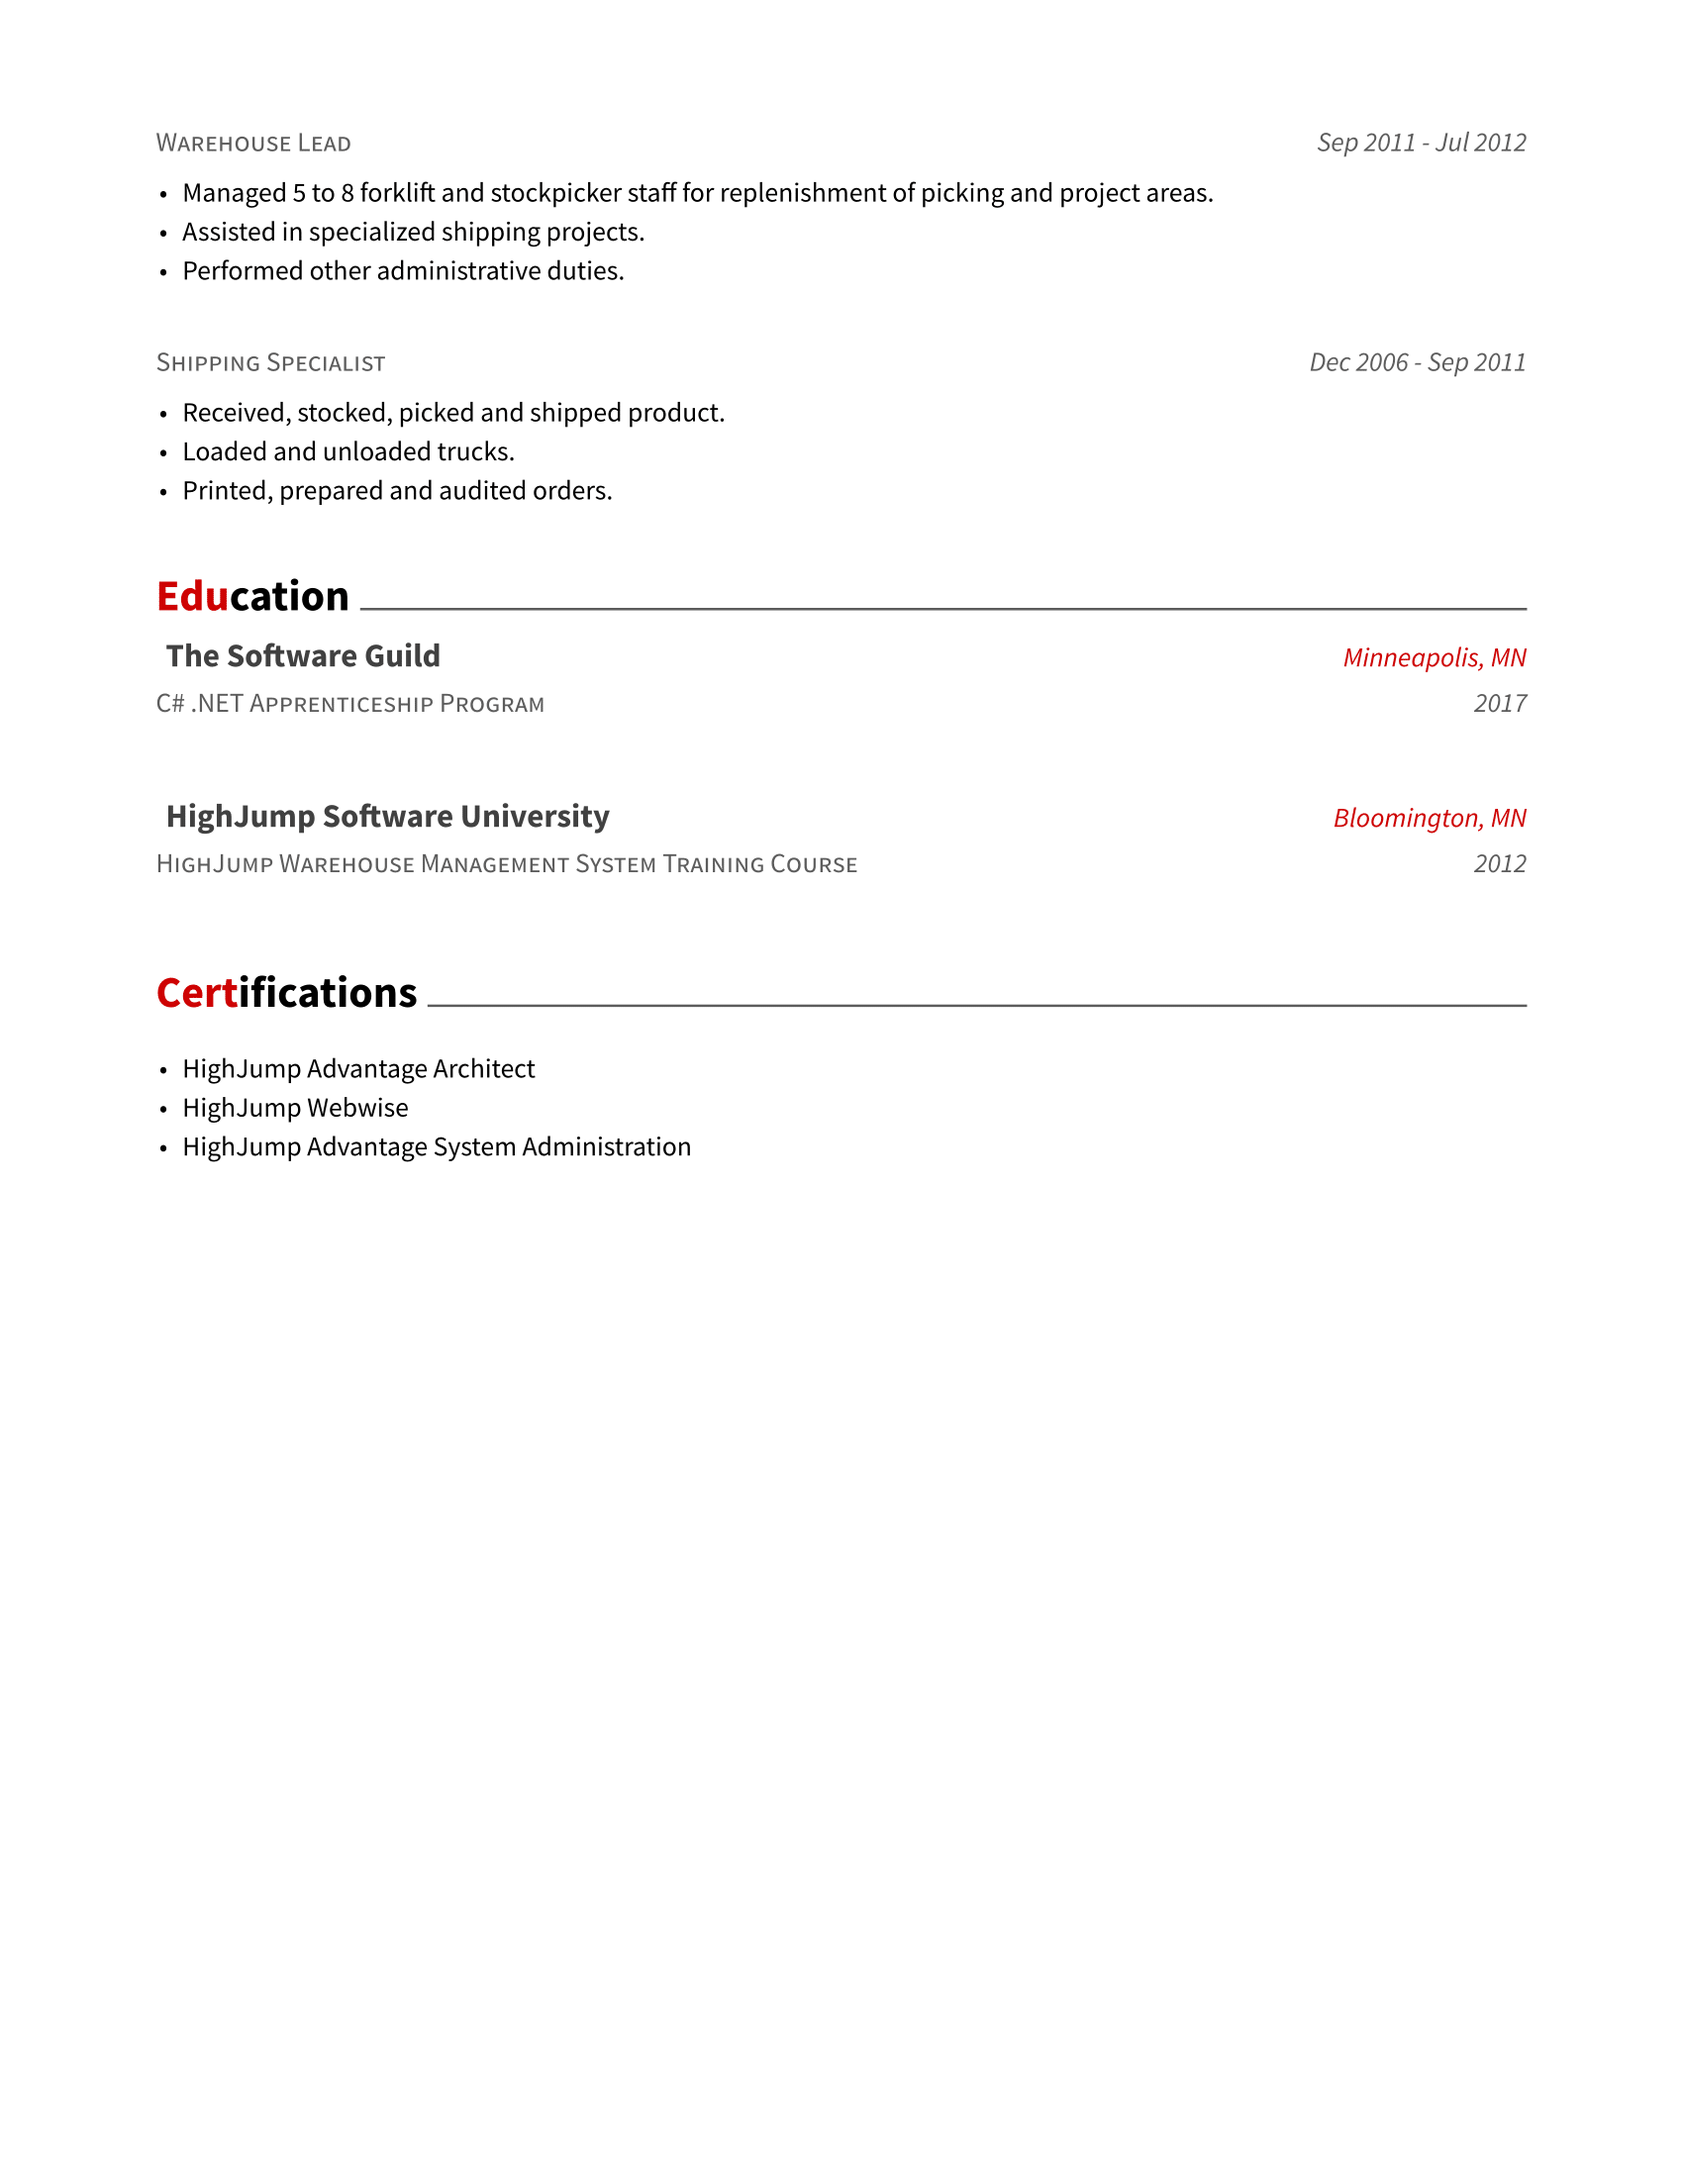
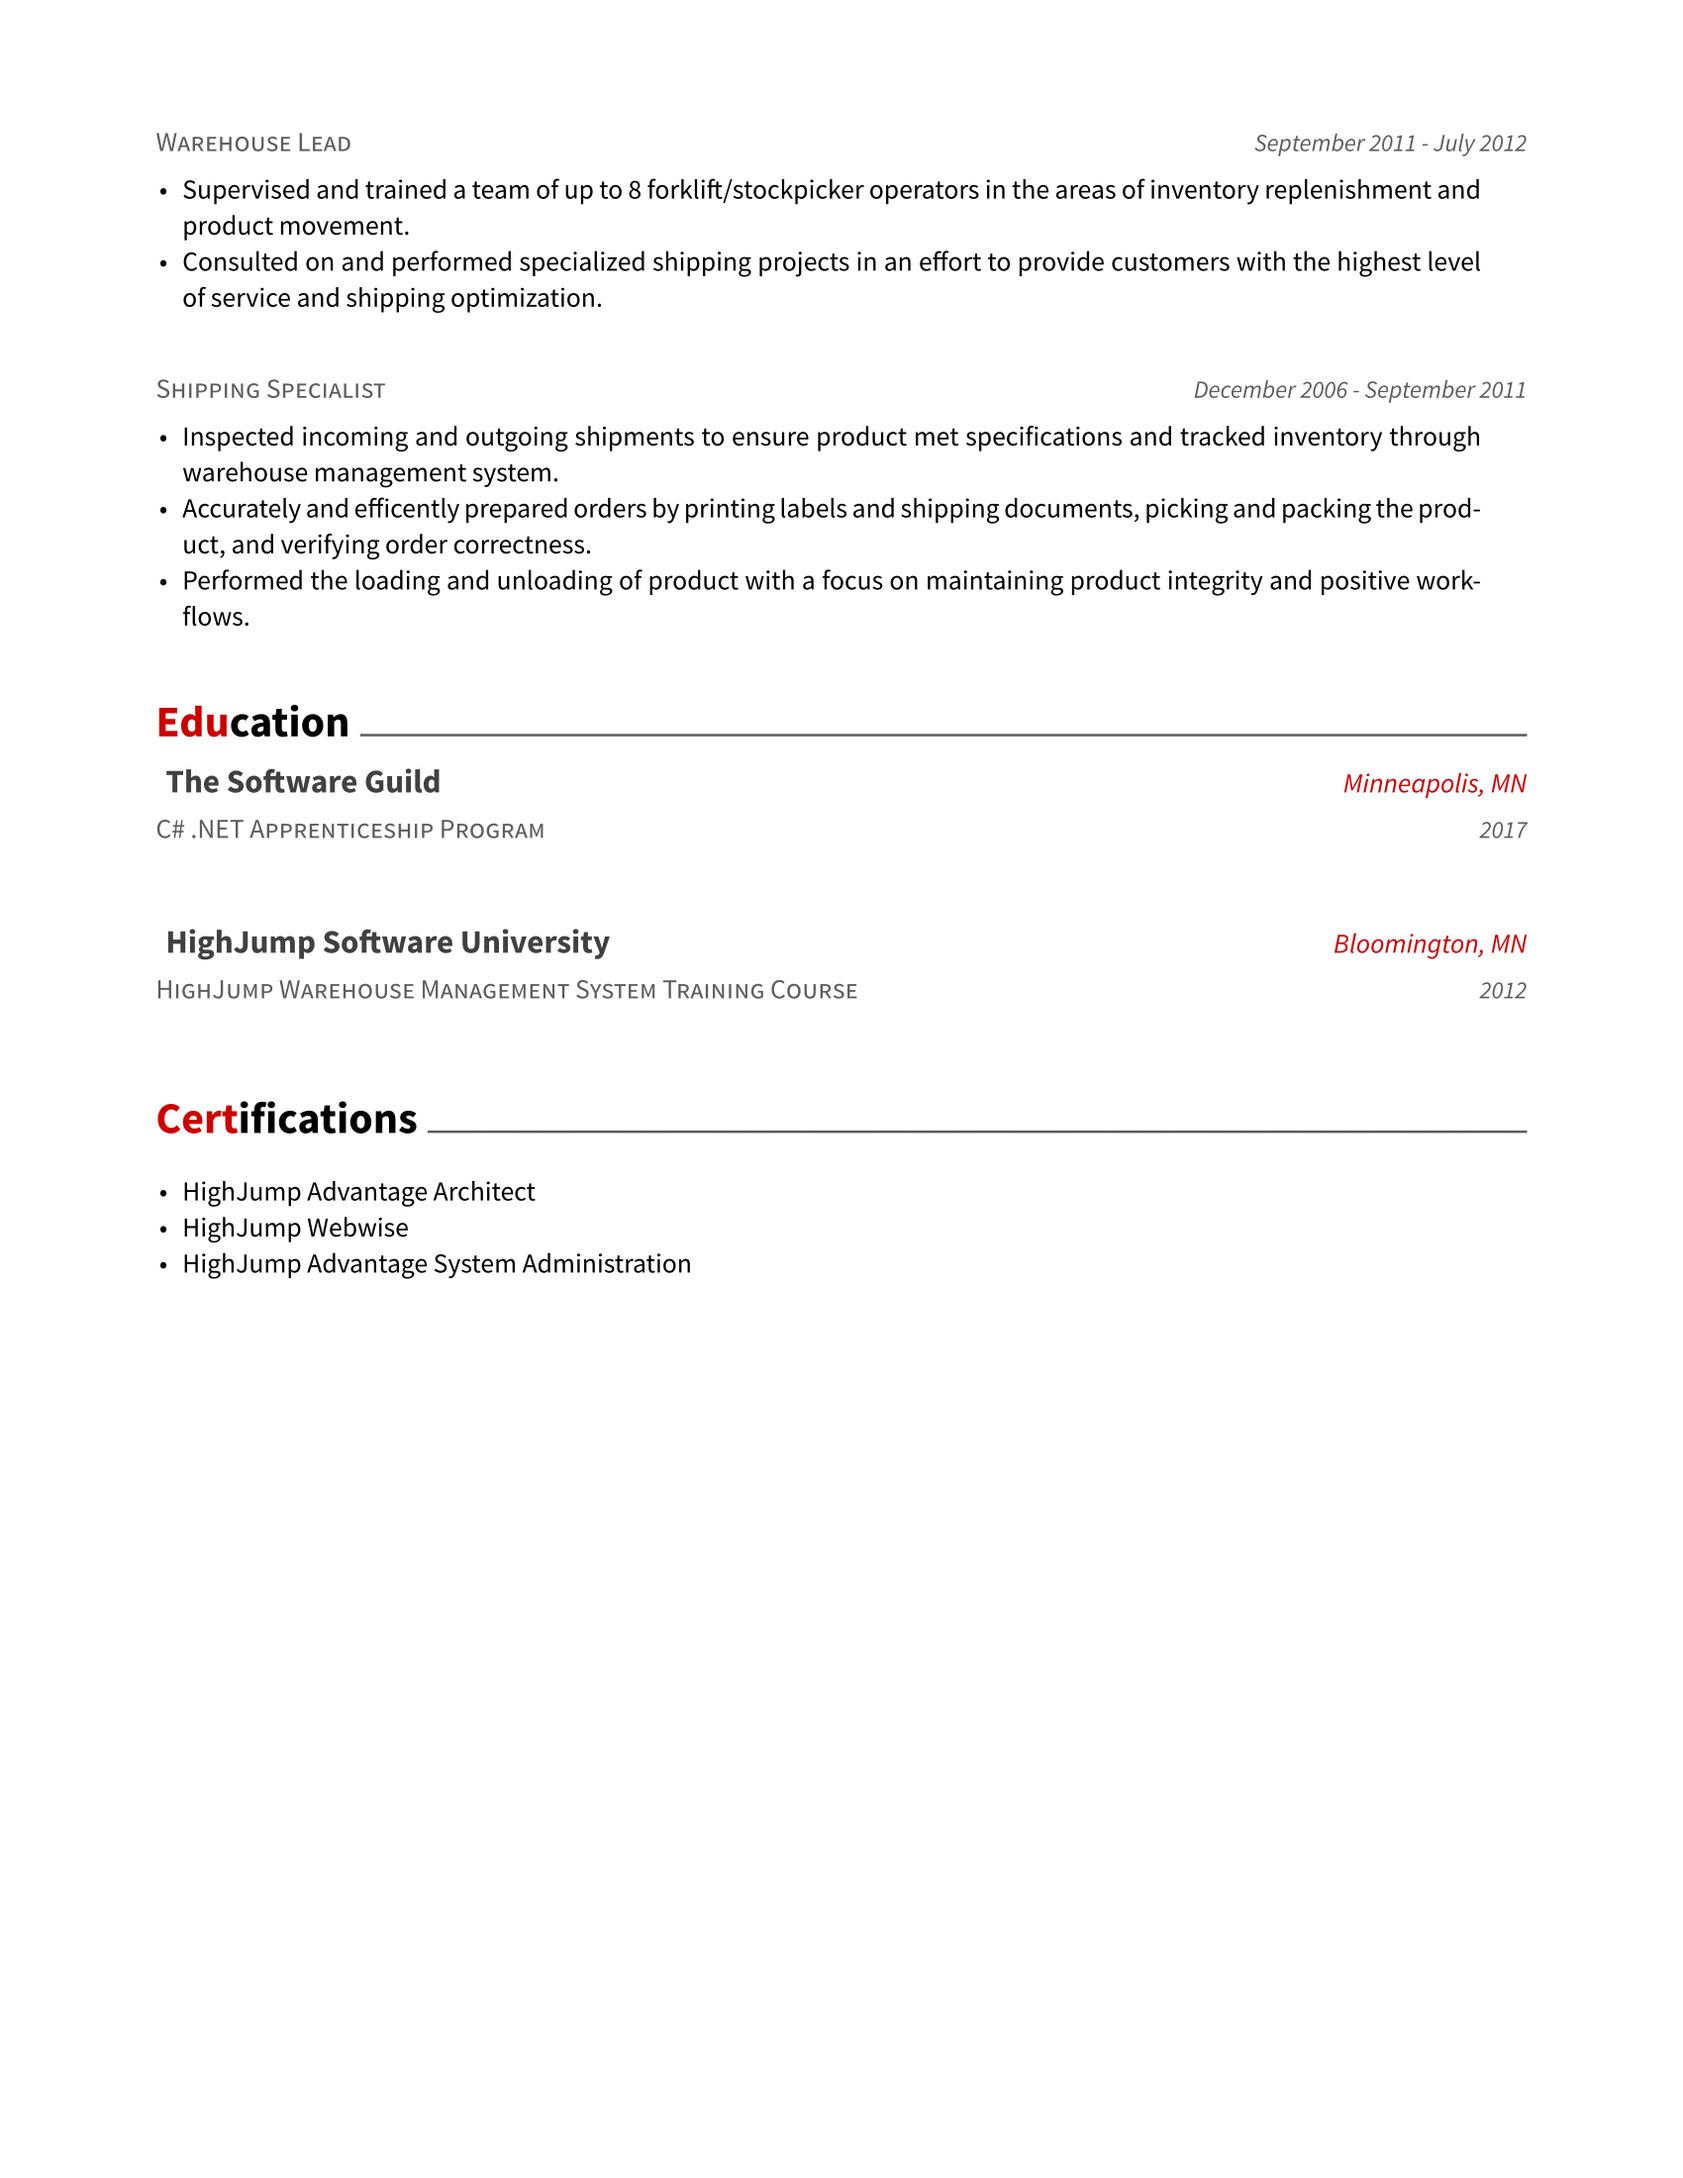
Added more info for Software Guild Changed wording under warehouse lead and shipping specialist

diff --git a/resume/experience.tex b/resume/experience.tex
@@ -4,14 +4,16 @@
     {C\# .NET Apprentice}
     {The Software Guild}
     {Minneapolis, MN}
-    {May 2017 - Jul 2017}
+    {May 2017 - July 2017}
     {
       \begin{cvitems}
        \item {Rigorous apprenticeship program focusing on C\# .NET MVC full-stack web development.}
-       \item {Built a single-page vending machine web application, utilizing bootstrap, CSS and Ajax for a fluid user experience.}
+       \item {Built a single-page vending machine web application, utilizing bootstrap, CSS and JavaScript for a fluid user experience.}
        \item {Developed a C\# console application for a flooring company that reads and saves data in CSV format and uses interfaces with ninject dependency injection for unit testing.}
        \item {Worked on a team to develop a Windows application game as an extra-curricular project.}
-       \item {Designed a weather forecast web application, pulling data from an online API for an entered postal code.}
+       \item {Designed a weather forecast web application, using Ajax to pull data from an online API for an entered postal code.}
+	\item {Created SQL database schema for a Hotel Reservation System, to track room configurations, individual reservations and extra charges, customer invoices and promotional codes.}
+	\item {Competed development of a College Student information system using ASP .NET MVC, implementing the ability to add, edit and delete student information, along with server side validation of data.}
       \end{cvitems}
     }{}{}
 
@@ -20,10 +22,10 @@
     {HighJump Warehouse Systems Developer}
     {WYNIT Distribution, LLC}
     {Eden Prairie, MN}
-    {Jul 2012 - May 2017}
+    {July 2012 - May 2017}
     {
       \begin{cvitems}
-       \item {Assisted in leading new implementation of HighJump WMS 12.8. Migration of legacy processes to help streamline implementation (SAP interface, Warehouse Control System (WCS) interface).  Project included development of product serial number scanning in all warehousing processes.}
+       \item {Lead new implementation of HighJump WMS 12.8 with others. Migration of legacy processes to help streamline implementation (SAP interface, Warehouse Control System (WCS) interface).  Project included development of product serial number scanning in all warehousing processes.}
        \item {Using RedGate SQL tools to monitor performance, implemented performance enhancements which immediately reduced SQL Server CPU usage by 80\%}
        \item {Architected and developed new processes for ConnectShip application integration from a depreciated interface.}
        \item {Designed and built socket based communication with a third-party Warehouse Control System (WCS) to divert picks within zones, validate container weights and dictate the sortation of containers to shipping lanes. Including creation of detailed documentation of the communication to occur between the systems.}
@@ -33,7 +35,7 @@
       \end{cvitems}
     }
    {(formerly Navarre Corporation)}
-   {(Dec 2006 - May 2017)}
+   {(December 2006 - May 2017)}
 
 
 
@@ -43,12 +45,11 @@
     {Warehouse Lead}
     {}
     {}
-    {Sep 2011 - Jul 2012}
+    {September 2011 - July 2012}
     {
       \begin{cvitems}
-       \item {Managed 5 to 8 forklift and stockpicker staff for replenishment of picking and project areas.}
-       \item {Assisted in specialized shipping projects.}
-       \item {Performed other administrative duties.}
+       \item {Supervised and trained a team of up to 8 forklift/stockpicker operators in the areas of inventory replenishment and product movement.}
+       \item {Consulted on and performed specialized shipping projects in an effort to provide customers with the highest level of service and shipping optimization.}
       \end{cvitems}
     }{}{}
 
@@ -59,12 +60,12 @@
     {Shipping Specialist}
     {}
     {}
-    {Dec 2006 - Sep 2011}
+    {December 2006 - September 2011}
     {
       \begin{cvitems}
-       \item {Received, stocked, picked and shipped product.}
-       \item {Loaded and unloaded trucks.}
-       \item {Printed, prepared and audited orders.}
+       \item {Inspected incoming and outgoing shipments to ensure product met specifications and tracked inventory through warehouse management system.}
+       \item {Accurately and efficently prepared orders by printing labels and shipping documents, picking and packing the product, and verifying order correctness.}
+       \item {Performed the loading and unloading of product with a focus on maintaining product integrity and positive workflows.}
       \end{cvitems}
     }{}{}
 

diff --git a/resume/techskills.tex b/resume/techskills.tex
@@ -3,24 +3,24 @@
 {
 \begin{multicols}{3}
 \begin{itemize}[leftmargin=2ex, nosep, noitemsep]
-\item {SQL Server 2008 / 2012}
-\item {Visual Studio 2015 / NUint}
-\item {Version Control (Git, TFS)}
+\item {C\# ASP .NET MVC}
+\item {ASP .NET Web Api}
+\item {SQL Server}
+\item {SQL Server Integration Services}
+\item {Visual Studio / NUint}
+\item {jQuery}
+\item {LINQ}
+\item {Bootstrap Framework}
 \item {HTML}
 \item {CSS}
 \item {JavaScript}
-\item {Bootstrap Framework}
-\item {C\# ASP .NET MVC}
-\item {ASP .NET Web Api}
-\item {jQuery}
-\item {LINQ}
+\item {Ninject}
+\item {Version Control (Git, TFS)}
 \item {Test Driven Development}
 \item {Object-Oriented Programming}
 \item {Entity Framework}
-\item {Ninject}
 \item {BarTender}
 \item {Crystal Reports}
-\item {SQL Server Integration Services}
 \end{itemize}
 \end{multicols}
 }
